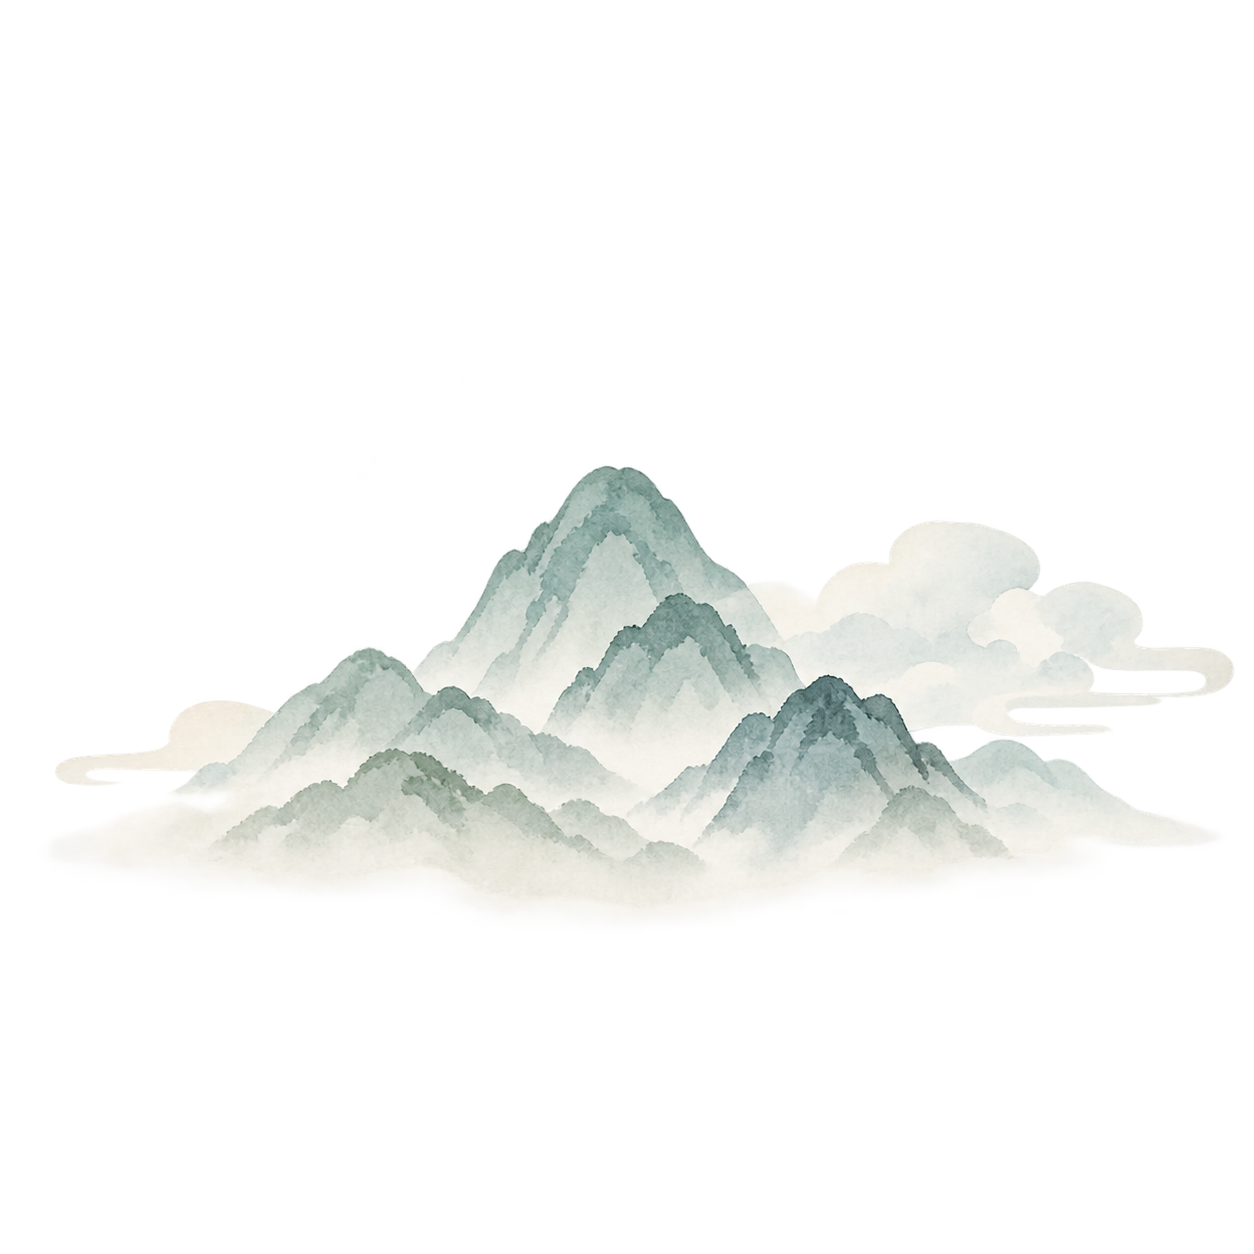
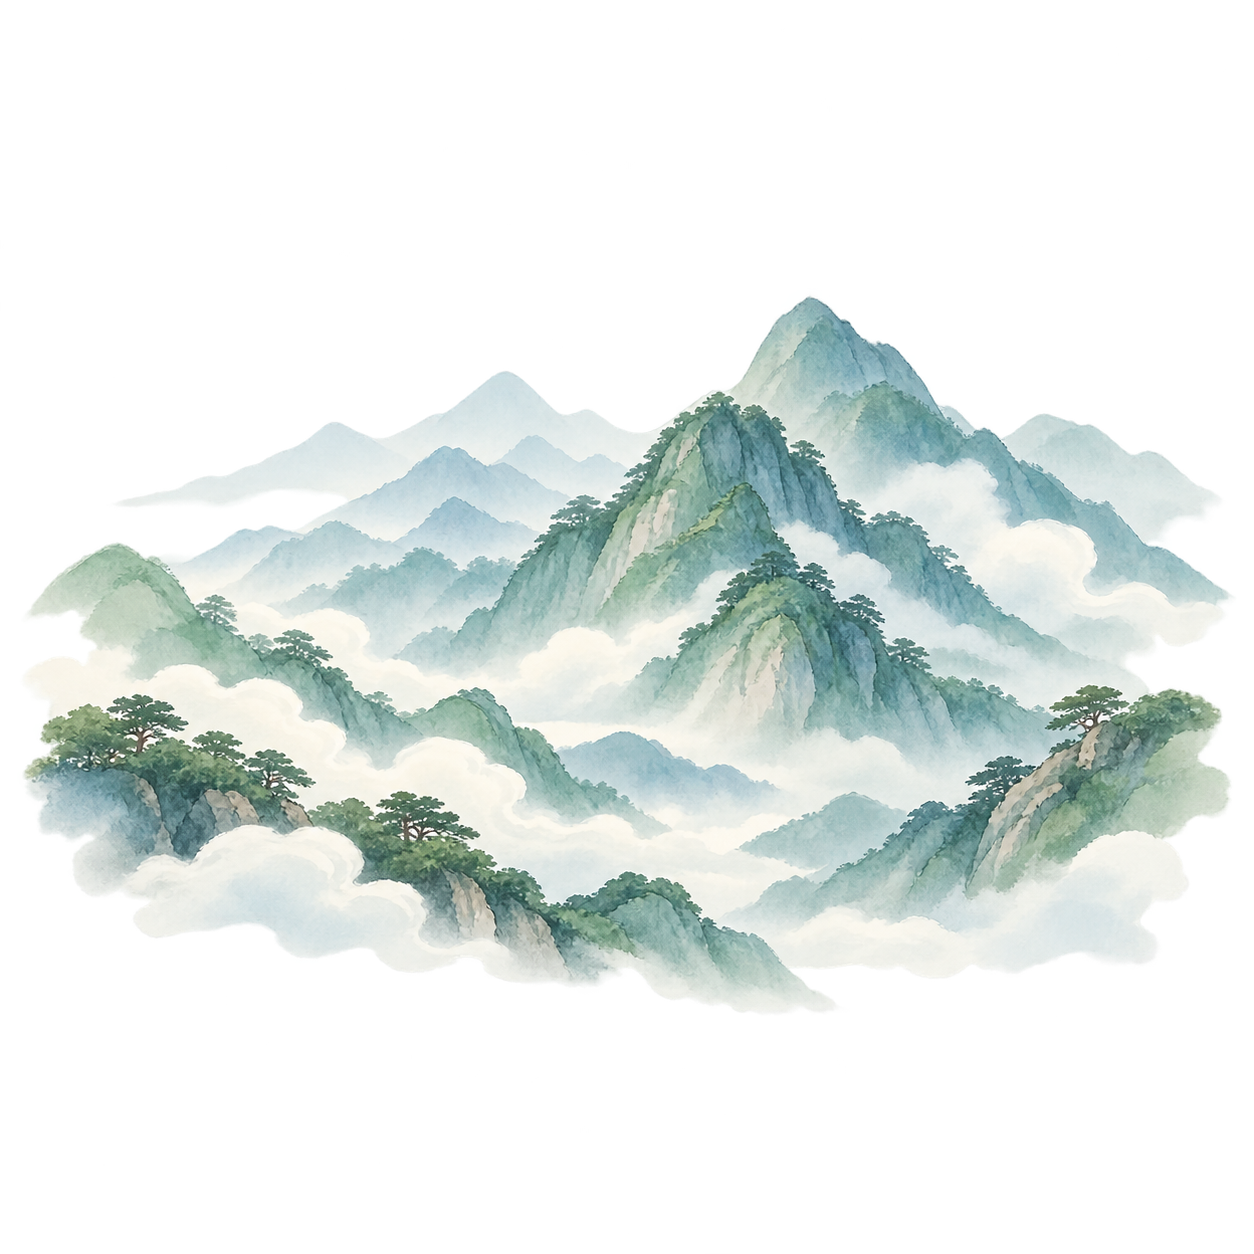
Add files via upload

Changed region(s): [[0.0, 0.2177, 0.9952, 0.8086]]

diff --git a/index.html b/index.html
@@ -17681,6 +17681,37 @@ body{scroll-padding-top:calc(var(--global-nav-h) + 12px)!important}
   #triviaBannerWrap .trivia-banner b{font-size:15px!important}
 }
 
+
+/* READY-UPLOAD FINAL PATCH */
+.hero-stats .stat-art{opacity:.62!important;filter:saturate(1.05) contrast(1.02)!important;}
+.hero-stats .stat-recorded .stat-art{opacity:.60!important;}
+.hero-stats .stat-unvisited .stat-art{opacity:.64!important;}
+.hero-journey-panel .hero-util-btn.util-course{background:#f3c66d!important;border-color:#d9a84a!important;color:#4c3316!important;}
+.hero-journey-panel .hero-util-btn.util-features{background:#e9def6!important;border-color:#cdb5e5!important;color:#4d3567!important;}
+/* 마음 쉬어가기 4개 완전 동일 높이 */
+.hero-experience .hip-quick-btn{height:154px!important;min-height:154px!important;}
+@media(max-width:700px){.hero-experience .hip-quick-btn{height:154px!important;min-height:154px!important;}}
+/* 필터 컨트롤 한 줄 */
+#mainFilterbar .filterbar-inner{display:flex!important;flex-wrap:nowrap!important;align-items:center!important;gap:8px!important;overflow-x:auto!important;scrollbar-width:none!important;}
+#mainFilterbar .filterbar-inner::-webkit-scrollbar{display:none!important;}
+#mainFilterbar .filterbar-inner>*{flex:0 0 auto!important;}
+#mainFilterbar #stageFilter{min-width:160px!important;max-width:190px!important;}
+/* 퀴즈 + 단풍 코스 카드 균형 */
+#approvedActionRow{grid-template-columns:repeat(2,minmax(0,1fr))!important;gap:12px!important;}
+#approvedActionRow .quiz-banner,#approvedActionRow .season-banner{height:88px!important;min-height:88px!important;padding:12px 14px!important;border-radius:16px!important;overflow:hidden!important;}
+#approvedActionRow .quiz-banner-main,#approvedActionRow .season-banner>span{font-size:13px!important;line-height:1.35!important;max-width:72%!important;}
+#approvedActionRow .btn{min-width:76px!important;padding:9px 11px!important;font-size:11px!important;}
+#approvedActionRow .season-banner{position:relative!important;background:linear-gradient(90deg,#fff8eb 0%,#fff6e8 60%,rgba(255,246,232,.82) 100%)!important;}
+#approvedActionRow .season-banner::after{content:''!important;position:absolute!important;right:-8px!important;bottom:-8px!important;width:150px!important;height:100px!important;background:url('./season-autumn-temple.png') no-repeat right bottom/contain!important;opacity:.72!important;pointer-events:none!important;}
+#approvedActionRow .season-banner>*{position:relative!important;z-index:2!important;}
+@media(max-width:700px){
+ #approvedActionRow{gap:9px!important;}
+ #approvedActionRow .quiz-banner,#approvedActionRow .season-banner{height:92px!important;min-height:92px!important;padding:10px!important;}
+ #approvedActionRow .quiz-banner-main,#approvedActionRow .season-banner>span{font-size:11px!important;max-width:68%!important;}
+ #approvedActionRow .btn{min-width:62px!important;padding:8px 8px!important;font-size:10px!important;}
+ #approvedActionRow .season-banner::after{width:110px!important;height:82px!important;opacity:.62!important;}
+}
+
 </style>
 </head>
 <body>
